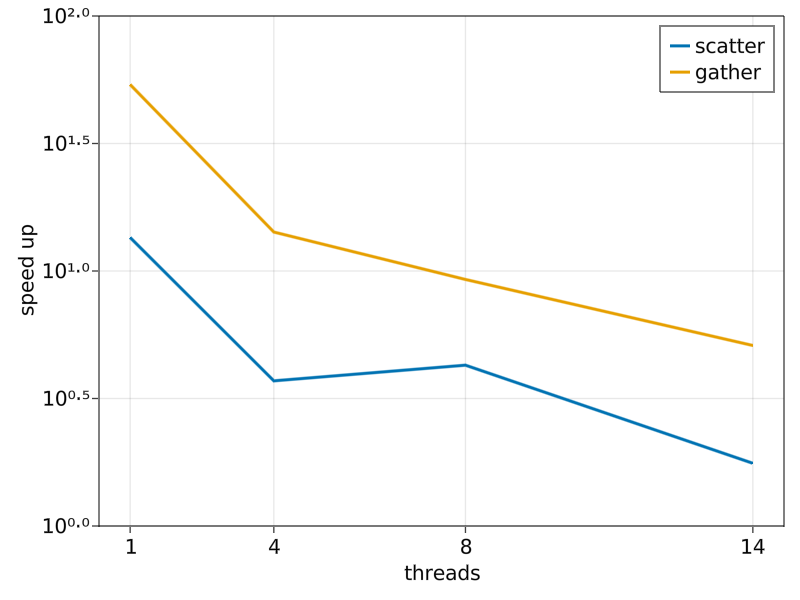
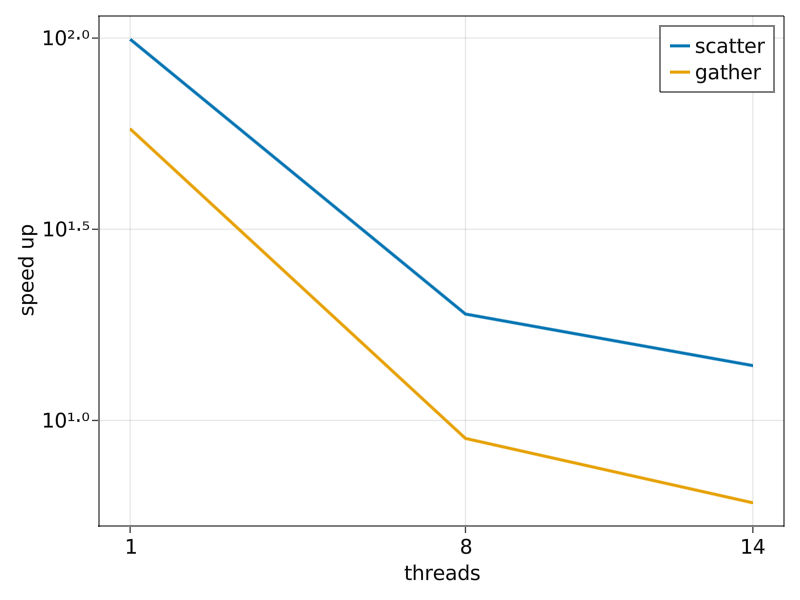
fixed figures and readme

diff --git a/README.md b/README.md
@@ -4,7 +4,6 @@
 ```Julia
 # model domain
 lx = ly = lz = 1
-dx, dy, dz = lx/(nx-1), ly/(ny-1), lz/(nz-1)
 x = LinRange(0, lx, nx)
 y = LinRange(0, ly, ny)
 z = LinRange(0, lz, nz)
@@ -37,10 +36,10 @@ particle_coords = (px, py, pz)
 On CPU
 ```Julia
 # scattering operation (tri-linear interpolation)
-Fp = scattering((x, y, z), (dx, dy, dz), F, particle_coords)
+Fp = scattering((x, y, z), F, particle_coords)
 
 # gathering operation (inverse distance weighting)
-gathering!(F, Fp, (x, y, z), (dx, dy, dz), particle_coords)
+gathering!(F, Fp, (x, y, z), particle_coords)
 ```
 
 Using CUDA
@@ -49,23 +48,23 @@ Using CUDA
 Fpd = CUDA.zeros(Float64, length(px))
 Fd = CuArray(F)
 Fd0 = deepcopy(Fd)
+particle_coords_dev = CuArray.(particle_coords)
 
 # scattering operation (tri-linear interpolation)
-scattering!(Fpd, (x, y, z), (dx, dy, dz), Fd, CuArray.(particle_coords))
+scattering!(Fpd, (x, y, z), Fd,particle_coords_dev)
 
 # gathering operation (inverse distance weighting)
-particle_coords_dev = CuArray.(particle_coords)
 fill!(Fd, 0.0)
-gathering!(Fd, Fpd, (x, y, z), (dx, dy, dz), particle_coords_dev)
+gathering!(Fd, Fpd, (x, y, z), particle_coords_dev)
 ```
 Resulting interpolated fields
 ![image](figs/trilinear.png)
 
 # Performance
-## Bi-linear interpolation and 2D weighted inverse distance interpolation
+<!-- ## Bi-linear interpolation and 2D weighted inverse distance interpolation
 
 ![image](figs/RTX3080.png)
-![image](figs/speedup_RTX3080.png)
+![image](figs/speedup_RTX3080.png) -->
 
 ## Tri-linear interpolation and 3D weighted inverse distance interpolation
 
